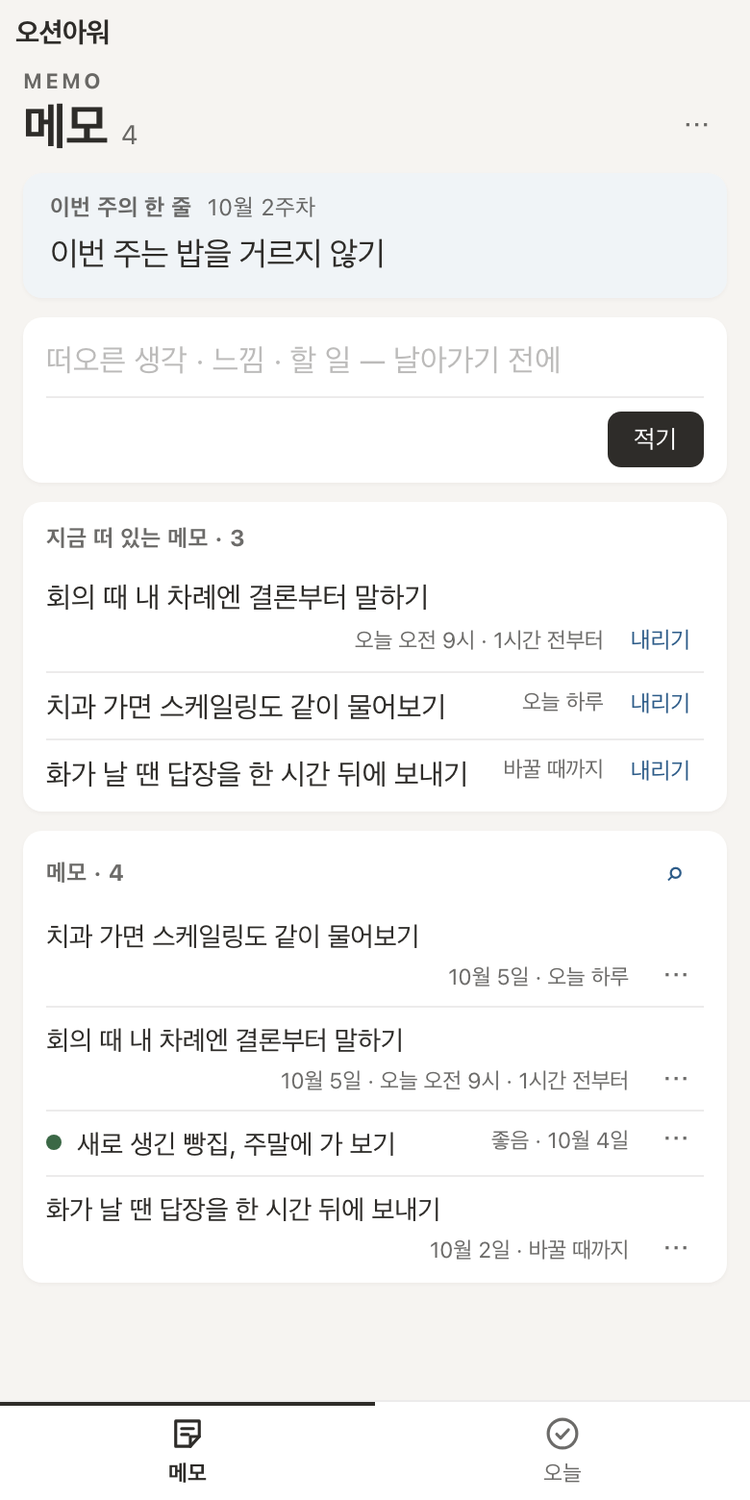
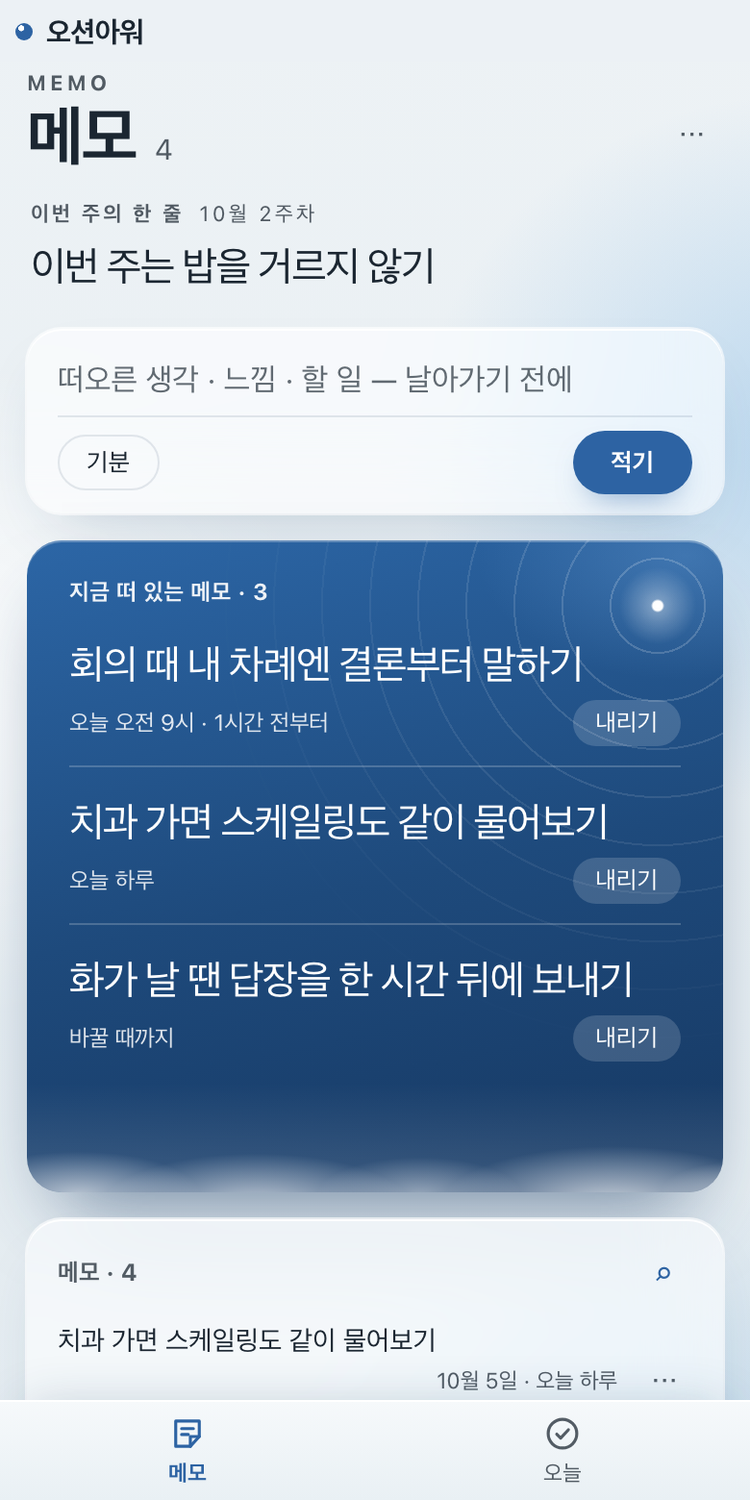
새 첫 화면 테마 — 앱(안개 하늘빛 · 어두운 판 B 색 + A 포인트)과 새 사진 · og(10-04)
파는 페이지 바탕색 맞추기는 다음 커밋.

diff --git a/app/index.html b/app/index.html
@@ -18,8 +18,8 @@
 <meta property="og:image:alt" content="오션아워 — 내 의지가 부족한 게 아니라, 시스템이 없었던 거예요. 적어 둔 한 줄이 필요한 때에 먼저 뜬다. 오른쪽은 실제 폰 화면">
 <meta name="twitter:card" content="summary_large_image">
 <link rel="manifest" href="manifest.webmanifest">
-<meta name="theme-color" content="#F6F4F1" media="(prefers-color-scheme: light)">
-<meta name="theme-color" content="#1B1A18" media="(prefers-color-scheme: dark)">
+<meta name="theme-color" content="#ECF1F5" media="(prefers-color-scheme: light)">
+<meta name="theme-color" content="#101214" media="(prefers-color-scheme: dark)">
 <link rel="icon" href="icons/icon-192.png">
 <link rel="apple-touch-icon" href="icons/apple-180.png">
 <meta name="apple-mobile-web-app-title" content="오션아워">
@@ -346,6 +346,228 @@ li.row.hit{background:color-mix(in srgb,var(--c4) 8%,transparent);border-radius:
   .entry input,.find input{min-height:44px;margin:-10px 0}
   .morep button,.morep a{min-height:44px;display:flex;align-items:center}
   .tools button{min-width:44px}
+}
+
+/* ───────────── 첫 화면 테마(10-04 대표님 — 밝음 시안 A · 어두움 시안 B 색 + A 포인트, 작업/2026-10-04-첫화면-시안/) ─────────────
+   앞 규칙을 덮어쓴다(같은 이름의 변수 · 규칙만). 바깥 글꼴 · 그림 파일 없음 — 무늬 · 안개 · 물결은 전부 그라데이션 · 그림자다.
+   밝은 판은 A, 어두운 판은 색이 B · 포인트가 A. 배치는 밝은 판 규칙을 어두운 판이 그대로 쓴다. */
+
+/* ───────────── 밝은 판 (A 그대로) ───────────── */
+:root{
+  --bg:#E9EFF3; --card:#FFFFFF; --side:#E2EAF0;
+  --line:rgba(28,58,88,.11);
+  --ink:#1B2631; --d70:rgba(27,38,49,.74); --d32:rgba(27,38,49,.68); --hov:rgba(28,58,88,.06);
+  --c1:#A8415A; --c2:#8E6524; --c3:#2F7567; --c4:#2D63A3; --c5:#5F6A74;
+  --red:#C23A30;
+  --r:18px;
+  --warn-bg:#F6EEDC; --warn-ink:#7E5A1E;
+  /* 이 시안만 쓰는 이름 */
+  --glass:rgba(255,255,255,.62);
+  --glass-edge:rgba(255,255,255,.62);
+  --glass-shadow:0 14px 34px -16px rgba(28,64,104,.26);
+  --sea1:#2C66A6; --sea2:#1E4A7C; --sea3:#163862;
+}
+
+/* 바탕 — 위 오른쪽에 하늘빛, 왼쪽 가운데에 흰 안개, 아래 오른쪽에 바다빛이 번진다 */
+body{
+  background:
+    radial-gradient(75% 34% at 108% 30%, rgba(150,196,234,.58), transparent 70%),   /* 위 오른쪽 하늘빛은 머리줄 아래로 — 머리줄 자리(맨 위 64px)는 평평한 안개빛이라 불투명 머리줄과 이음매가 안 보인다 */
+    radial-gradient(85% 32% at -14% 46%, rgba(255,255,255,.9), transparent 70%),
+    radial-gradient(95% 38% at 100% 106%, rgba(128,180,220,.46), transparent 70%),
+    linear-gradient(180deg,#EDF2F5 0%,#E4ECF1 100%);
+}
+
+/* 옆 칸(컴퓨터) */
+aside{background:rgba(255,255,255,.42);-webkit-backdrop-filter:blur(24px);backdrop-filter:blur(24px);border-right:1px solid rgba(255,255,255,.7)}
+.brand{font-size:15px;padding:18px 18px 12px;letter-spacing:-.02em}
+.li{border-radius:12px}
+.li.on{background:rgba(255,255,255,.8);color:var(--ink);box-shadow:0 6px 16px -10px rgba(28,64,104,.4),0 0 0 1px rgba(255,255,255,.7)}
+.li.on .ico{color:var(--c4)}
+
+/* 작은 구슬 하나 — 이름 앞에 붙은 물방울(그림 파일 아님) */
+.brand::before,.topbar .tb-t::before{
+  content:'';display:inline-block;width:9px;height:9px;border-radius:50%;margin-right:7px;vertical-align:1px;
+  background:radial-gradient(circle at 34% 30%,#fff 0 17%,transparent 19%),var(--c4)}
+
+/* 머리줄 — 큰 제목. 라벨(MEMO · TODAY)과 제목 옆 작은 숫자는 그대로 */
+.daybar.heads h1{font-size:34px;letter-spacing:-.035em;line-height:1.15}
+.daybar h1 .n{font-size:15px;letter-spacing:0;margin-left:4px}
+.daybar .lab{letter-spacing:.18em;font-size:11px}
+.daybar .moreb{letter-spacing:.08em}
+
+/* 이번 주의 한 줄 — 카드를 벗고 글만. 안개 위에 크게 */
+.wline{background:transparent;box-shadow:none;border-radius:0;padding:4px 2px 12px;margin-bottom:6px}
+.wl-h{font-size:11px;letter-spacing:.14em}
+.wl-t{font-size:21px;line-height:1.4;letter-spacing:-.03em;padding-top:5px}
+.wline input.edit{font-size:21px}
+
+/* 비치는 카드 */
+.box,.entry,.mentry,.morep{
+  background:var(--glass);
+  -webkit-backdrop-filter:blur(22px) saturate(1.35);backdrop-filter:blur(22px) saturate(1.35);
+  border-radius:var(--r);
+  box-shadow:inset 0 1px 0 rgba(255,255,255,.95),0 0 0 1px var(--glass-edge),var(--glass-shadow)}
+.box{padding:2px 16px 6px;margin-bottom:14px}
+.box h2{font-size:12.5px;padding:13px 0 6px;letter-spacing:.01em}
+.entry{padding:9px 16px;margin-bottom:14px}
+.entry .p{color:var(--c4);font-size:21px;font-weight:400}
+.mentry{padding:14px 16px 10px;margin-bottom:14px}
+.mopts{border-top-color:var(--line)}
+.morep{padding:8px}
+li.row{border-top-color:var(--line)}
+.fold{border-top:0;padding-left:4px;color:var(--d70)}
+.addrow{padding-left:0}
+
+/* 누르는 것 — 파랑 한 점. 적기 단추는 파랑 알약, 기분 단추는 가는 테두리 */
+.madd{background:var(--c4);color:#fff;border-radius:999px;padding:7px 20px;font-weight:700;box-shadow:0 8px 16px -8px rgba(45,99,163,.6)}
+.mopen{background:transparent;border-radius:999px;padding:4px 14px}
+.mtools button,.mtools label,.tools button,.mat input,.mat select{border-radius:999px;background:rgba(255,255,255,.7)}
+.mat input,.mat select{border-radius:10px}
+
+/* 체크 칸 — 둥글게(Tiimo). 끝내면 바다빛 초록 */
+.ck{width:20px;height:20px;border-radius:50%;margin-top:1px;border-width:1.5px}
+.ck.on::after{width:5px;height:9.5px;transform:rotate(43deg) translate(-.5px,-1px)}
+
+/* 기분 구슬 — 얼굴 대신 반짝이는 작은 구슬(How We Feel의 색 동그라미) */
+.mdot{width:10px;height:10px;margin-top:8px;background:radial-gradient(circle at 34% 30%,rgba(255,255,255,.85) 0 16%,transparent 18%),var(--mc)}
+.mood i{width:16px;height:16px;background:radial-gradient(circle at 34% 30%,rgba(255,255,255,.85) 0 16%,transparent 18%),var(--mc)}
+
+/* ───── 이 화면의 주인공 — 지금 떠 있는 메모. 구름 위 깊은 파랑 ───── */
+.box.mup{
+  position:relative;overflow:hidden;isolation:isolate;
+  padding:18px 22px 58px;border:0;
+  -webkit-backdrop-filter:none;backdrop-filter:none;
+  background:
+    radial-gradient(150px 90px at calc(100% - 20px) 8px, rgba(112,168,226,.34), transparent 72%),
+    linear-gradient(168deg,var(--sea1) 0%,var(--sea2) 52%,var(--sea3) 100%);
+  color:#fff;
+  box-shadow:inset 0 1px 0 rgba(255,255,255,.28),0 22px 40px -18px rgba(22,56,98,.62)}
+/* 물결 — 오른쪽 위 한 점에서 번지는 가는 동그라미. 가장자리로 갈수록 옅다 */
+.mup::before{
+  content:'';position:absolute;inset:0;z-index:-1;pointer-events:none;
+  background:
+    radial-gradient(circle at calc(100% - 34px) 34px,#fff 0 2.5px,rgba(255,255,255,.34) 3.5px,transparent 20px),
+    repeating-radial-gradient(circle at calc(100% - 34px) 34px,transparent 0 24px,rgba(255,255,255,.2) 24px 25px);
+  -webkit-mask-image:radial-gradient(circle at calc(100% - 34px) 34px,#000 0,rgba(0,0,0,.55) 90px,transparent 230px);
+  mask-image:radial-gradient(circle at calc(100% - 34px) 34px,#000 0,rgba(0,0,0,.55) 90px,transparent 230px)}
+/* 구름 — 맨 아래 띠에만. 글은 이 띠 위에 있어서 대비를 깎지 않는다 */
+.mup::after{
+  content:'';position:absolute;left:-12px;right:-12px;bottom:-1px;height:58px;z-index:-1;pointer-events:none;
+  background:
+    radial-gradient(86px 30px at 10% 100%,rgba(255,255,255,.62),transparent 74%),
+    radial-gradient(110px 38px at 34% 112%,rgba(255,255,255,.7),transparent 74%),
+    radial-gradient(72px 26px at 56% 100%,rgba(255,255,255,.46),transparent 74%),
+    radial-gradient(120px 40px at 82% 108%,rgba(255,255,255,.7),transparent 74%),
+    radial-gradient(60px 22px at 100% 98%,rgba(255,255,255,.5),transparent 74%),
+    linear-gradient(180deg,transparent,rgba(255,255,255,.16))}
+.mup h2{color:rgba(255,255,255,.92);font-size:12px;letter-spacing:.02em;padding:0 0 8px}
+.mup li.row{border-top-color:rgba(255,255,255,.2);padding:14px 0 10px}
+.mup li.row:first-child{padding-top:6px}
+.mup .mtx{font-size:21px;line-height:1.38;letter-spacing:-.03em;color:#fff;flex:1 1 100%;padding:0}
+.mup .mtx.clue{color:rgba(255,255,255,.88)}
+.mup .mtx .mclue{color:#fff}
+.mup .mnone{color:rgba(255,255,255,.92)}   /* 글 없이 기분만 띄운 메모 — 앱의 어두운 글자색(.mnone)이 파란 카드 위에 남지 않게 */
+/* 작은 글 — 글 밑 한 줄에 뜨는 때 · 내리기 */
+.mup .mrow .meta{flex:1 1 100%;margin-left:0;max-width:none;order:2;justify-content:space-between;align-items:center;padding-top:4px}
+.mup .mrow .meta .d{color:rgba(255,255,255,.86);text-align:left;white-space:normal;font-size:12px}
+.mup .mdown{color:#fff;font-size:12.5px;background:rgba(255,255,255,.16);border-radius:999px;padding:3px 12px;flex:none}
+.mup .mdown:hover{background:rgba(255,255,255,.16);box-shadow:inset 0 0 0 1.5px rgba(255,255,255,.92);text-decoration:underline}   /* 올려도 바탕을 안 밝힌다 — 테두리 · 밑줄로 강조 */
+.mup .mdot{margin-top:11px;margin-right:2px;box-shadow:0 0 0 2px rgba(255,255,255,.35)}
+.mup li.row:focus-visible{background:transparent;box-shadow:inset 3px 0 0 #fff}
+
+/* 빈칸 안내(placeholder) — 앱은 --d32를 입력칸 두 곳에만 썼고 찾기 · 친구에게 · 내 이름 칸은 브라우저 기본색(어두운 판에서 3.7)이었다. 모두 --d32로(4.5 이상) */
+input::placeholder,textarea::placeholder{color:var(--d32);opacity:1}
+
+/* 메모 모음 — 글 15px, 곁글은 작게 */
+.mlistb h2{padding-top:14px}
+.mlv{border-radius:999px}
+.mrow .meta .d{font-size:11.5px}
+
+/* 폰 — 위 줄은 비치고, 아래 탭은 안 비친다 */
+@media(max-width:640px){
+  /* 위 줄 — 불투명(스크롤하면 뒤 글자가 머리글과 겹치지 않는다). 바탕 맨 위와 같은 안개빛이라 이음매가 없다 */
+  .topbar{background:#ECF1F5}
+  .topbar .tb-t{font-size:15px}
+  /* 고친 것 — 탭 뒤로 목록 글자가 비쳤다. 안개빛 불투명 바탕(위는 거의 흰빛, 아래는 안개빛)에 흰 윗선. 글자는 안 비친다 */
+  .tabs{background:linear-gradient(180deg,#F6F9FB 0%,#E9F0F4 100%);
+    border-top:1px solid #fff;box-shadow:0 -10px 26px -14px rgba(28,64,104,.26)}
+  .tabs button.on{color:var(--c4);box-shadow:none}
+  .wrap{padding-left:14px;padding-right:14px}
+}
+@media (pointer:coarse){ .fold{display:flex;align-items:center} }
+
+/* 투명 효과를 못 쓰거나 줄여 달라고 한 기기 — 카드를 거의 불투명하게(탭 · 위 줄은 늘 불투명 · 안개빛) */
+@supports not ((backdrop-filter:blur(1px)) or (-webkit-backdrop-filter:blur(1px))){
+  :root{--glass:rgba(255,255,255,.92)}
+  aside{background:rgba(255,255,255,.7)}
+}
+@media (prefers-reduced-transparency:reduce){
+  :root{--glass:rgba(255,255,255,.94)}
+  .box,.entry,.mentry,.morep,aside{-webkit-backdrop-filter:none;backdrop-filter:none}
+}
+
+/* ───────────── 어두운 판 — 색은 B(바탕 · 카드 면 · 테두리 · 글자 · 흐린 글자 · 흰 테두리 단추), 포인트는 A(물결 · 빛나는 점 · 파란 점 · 파란 테두리) ─────────────
+   모양 · 간격 · 둥근 정도 · 체크 모양은 위 밝은 판 규칙 그대로다 — 여기서는 색만 바꾼다(밝은 ↔ 어두운 바꿔도 자리가 안 움직인다) */
+@media (prefers-color-scheme:dark){
+  :root{
+    /* B 어두운 판 */
+    --bg:#101214; --card:#191C1F; --side:#131619;
+    --line:#3B434A;
+    --ink:#F0F3F5; --d70:#B7C2C9; --d32:#B7C2C9; --hov:#292E32;
+    --c1:#E0A4AE; --c2:#D8BD86; --c3:#A4C5B0; --c5:#B7C2C9; --red:#F0ABA8;
+    --warn-bg:#302A20; --warn-ink:#E2C893;
+    --b-fog:#1B2024; --b-up:#171B1F; --b-cloud:#2C3339; --b-up-sub:#C1CCD4; --b-up-line:#60717E;
+    /* A 어두운 판 — 누르는 것의 파랑 한 점 */
+    --c4:#8DB6E8;
+  }
+  body{background:radial-gradient(90% 30% at 100% 36%,var(--b-fog),transparent 100%),var(--bg)}   /* B의 안개 색 — 오른쪽 가운데로 내려 머리줄 자리는 평평한 바탕 */
+  aside{background:var(--side);-webkit-backdrop-filter:none;backdrop-filter:none;border-right-color:var(--line)}
+  .li.on{background:var(--hov);box-shadow:none}
+  .li.on .ico{color:var(--ink)}
+  .brand::before,.topbar .tb-t::before{background:radial-gradient(circle at 34% 30%,#fff 0 17%,transparent 19%),var(--c4)}
+
+  /* 카드 면 — B의 면 · 테두리 색, 모양은 A */
+  .box,.entry,.mentry,.morep{
+    background:var(--card);-webkit-backdrop-filter:none;backdrop-filter:none;
+    box-shadow:inset 0 0 0 1px var(--line)}
+  .madd{background:var(--ink);color:var(--bg);box-shadow:none}
+  .mopen{border-color:var(--d70)}
+  .mtools button,.mtools label,.tools button,.mat input,.mat select{background:transparent}
+  .mdot,.mood i{background:radial-gradient(circle at 34% 30%,rgba(255,255,255,.7) 0 16%,transparent 18%),var(--mc)}
+  #toast button{opacity:1}
+
+  /* 지금 떠 있는 메모 — B의 면 · 테두리 위에 A의 물결 동그라미와 빛나는 점 */
+  .box.mup{
+    background:radial-gradient(ellipse at 100% 100%,var(--b-cloud),var(--b-up) 78%);
+    box-shadow:inset 0 0 0 1px var(--b-up-line)}
+  .mup::before{
+    background:
+      radial-gradient(circle at calc(100% - 34px) 34px,#fff 0 2.5px,rgba(255,255,255,.3) 3.5px,transparent 22px),
+      repeating-radial-gradient(circle at calc(100% - 34px) 34px,transparent 0 24px,rgba(255,255,255,.2) 24px 25px)}
+  /* 구름 띠 — 밝은 판과 높이를 같게 두고, 어두운 판에서는 아주 옅은 안개 */
+  .mup::after{
+    background:
+      radial-gradient(86px 30px at 10% 100%,rgba(255,255,255,.1),transparent 74%),
+      radial-gradient(110px 38px at 34% 112%,rgba(255,255,255,.12),transparent 74%),
+      radial-gradient(72px 26px at 56% 100%,rgba(255,255,255,.08),transparent 74%),
+      radial-gradient(120px 40px at 82% 108%,rgba(255,255,255,.12),transparent 74%),
+      linear-gradient(180deg,transparent,rgba(255,255,255,.04))}
+  .mup h2{color:var(--b-up-sub)}
+  .mup li.row{border-top-color:var(--b-up-line)}
+  .mup .mtx{color:var(--ink)}
+  .mup .mtx.clue{color:var(--b-up-sub)}
+  .mup .mtx .mclue{color:var(--c4)}
+  .mup .mnone{color:var(--b-up-sub)}
+  .mup .mrow .meta .d{color:var(--b-up-sub)}
+  .mup .mdown{color:var(--c4);background:transparent;box-shadow:inset 0 0 0 1px color-mix(in srgb,var(--c4) 70%,transparent)}
+  .mup .mdown:hover{background:transparent;box-shadow:inset 0 0 0 1.5px var(--c4);text-decoration:underline}
+  .mup .mdot{box-shadow:0 0 0 2px rgba(255,255,255,.3)}
+  .mup li.row:focus-visible{background:transparent;box-shadow:inset 3px 0 0 var(--c4)}
+
+  /* 폰 위 줄 · 아래 탭 — 탭은 불투명(글자가 안 비친다) */
+  .topbar{background:var(--bg);-webkit-backdrop-filter:none;backdrop-filter:none}   /* 불투명 — 스크롤해도 뒤 글자가 안 비친다 */
+  .tabs{background:var(--card);border-top:1px solid var(--line);box-shadow:none}
+  .tabs button.on{color:var(--ink);box-shadow:none}
 }
 </style>
 </head>
